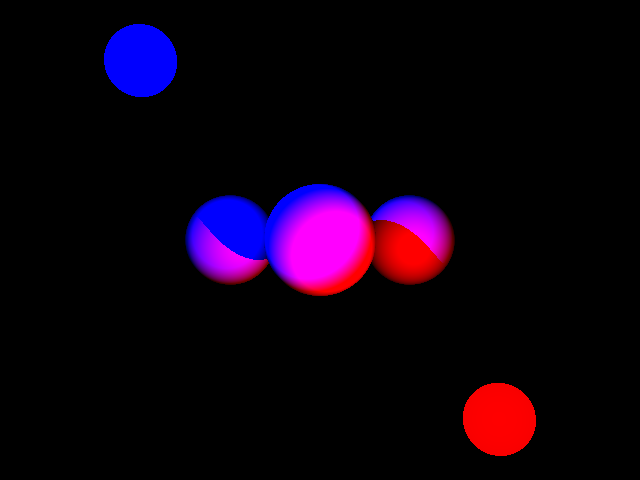
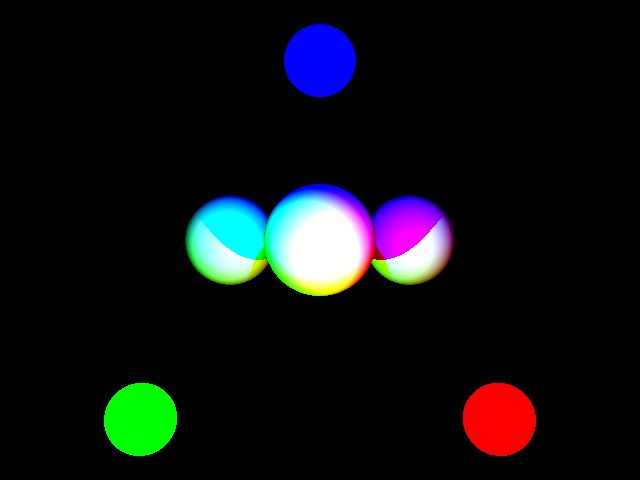
switched from pil to pygame

diff --git a/ray/ray.py b/ray/ray.py
@@ -1,9 +1,11 @@
+import pygame
 import math
 from mathutils import Vec3
 
-from PIL import Image
-
 MAX_RAY_DEPTH = 3
+
+WIDTH = 320
+HEIGHT = 240
 
 BACKGROUND_COLOUR = Vec3(0,0,0)
 
@@ -132,16 +134,22 @@ light_material = Material()
 light_material.emission_colour = Vec3(0.0,0.0,80.0)
 light_material.surface_colour = Vec3(1.0,1.0,1.0)
 
-scene_objects.append(Sphere(Vec3(-10,10,-50),2,light_material))
+scene_objects.append(Sphere(Vec3(0,10,-50),2,light_material))
+
+light_material = Material()
+light_material.emission_colour = Vec3(0.0,80.0,0.0)
+light_material.surface_colour = Vec3(1.0,1.0,1.0)
+
+scene_objects.append(Sphere(Vec3(-10,-10,-50),2,light_material))
+
+pygame.init()
+game_display = pygame.display.set_mode((WIDTH,HEIGHT))
 
 def render(width,height,fov):
     aspect_ratio = width / float(height)
     angle = math.tan(math.radians(fov / 2.0))
     inv_width = 1.0 / width
     inv_height = 1.0 / height
-
-    img = Image.new('RGB', (width, height), "black")
-    pixels = img.load()
 
     for y in range(height):
         for x in range(width):
@@ -154,10 +162,16 @@ def render(width,height,fov):
             
             rgb = rgb.clamp(0.0, 1.0)
 
-            pixels[x,y] = (int(rgb.x * 255), int(rgb.y * 255), int(rgb.z * 255))
-            
-    filename = "result.png"
-    img.save(filename)
-    
-render(640,480,30)
+            game_display.set_at((x,y), (int(rgb.x * 255), int(rgb.y * 255), int(rgb.z * 255)))
+
+pygame_quitted = False
+
+render(WIDTH,HEIGHT,30)
+pygame.display.flip()
+
+render(WIDTH,HEIGHT,30)
+
+input("Press Enter To End")
+
+pygame.quit()
 
